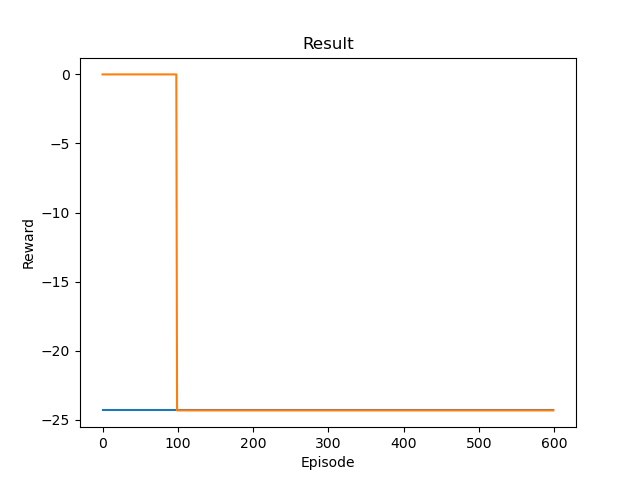
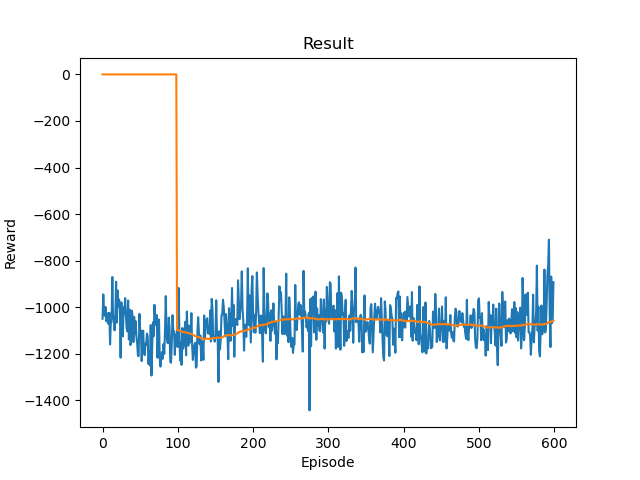
Fixed toy problem so policy only sees target. Including metaprompt.

diff --git a/general_sentiment_tuning.py b/general_sentiment_tuning.py
@@ -1,20 +1,21 @@
+import configparser
 import sys
+
+import pandas as pd
 import torch
 import torch.nn.functional as F
 from torch.distributions import Multinomial
 from tqdm import tqdm
-import pandas as pd
-import wandb
-import configparser
 
+import wandb
 from utils import build_dataset, collator, prepare_target, prepare_target_easy
 
 tqdm.pandas()
 
-from transformers import pipeline, AutoTokenizer, TextClassificationPipeline, AutoModelForCausalLM
 from datasets import load_dataset
-
-from trl import PPOTrainer, PPOConfig, AutoModelForCausalLMWithValueHead
+from transformers import (AutoModelForCausalLM, AutoTokenizer,
+                          TextClassificationPipeline, pipeline)
+from trl import AutoModelForCausalLMWithValueHead, PPOConfig, PPOTrainer
 from trl.core import LengthSampler
 
 run_config = configparser.ConfigParser()
@@ -28,11 +29,14 @@ wandb.init(project="sentiment-tuning", name=section, config=dict(run_config))
 config = PPOConfig(
     model_name=run_config["model_name"],
     learning_rate=run_config.getfloat("lr"),
-    log_with="wandb"
+    log_with="wandb",
 )
 
-sent_kwargs = {"return_all_scores": True, "function_to_apply": "none", "batch_size":
-        run_config.getint("batch_size")}
+sent_kwargs = {
+    "return_all_scores": True,
+    "function_to_apply": "none",
+    "batch_size": run_config.getint("batch_size"),
+}
 
 dataset = build_dataset(config)
 
@@ -44,8 +48,9 @@ tokenizer = AutoTokenizer.from_pretrained(config.model_name)
 tokenizer.pad_token = tokenizer.eos_token
 
 # Initialize PPOTrainer
-ppo_trainer = PPOTrainer(config, model, ref_model, tokenizer, dataset=dataset,
-        data_collator=collator) 
+ppo_trainer = PPOTrainer(
+    config, model, ref_model, tokenizer, dataset=dataset, data_collator=collator
+)
 
 # Load classifier
 device = ppo_trainer.accelerator.device
@@ -54,12 +59,16 @@ if ppo_trainer.accelerator.num_processes == 1:
 
 
 # sentiment_pipe = pipeline("sentiment-analysis", model="lvwerra/distilbert-imdb",
-        # device=device) 
-reward_pipe = pipeline("text-generation", model=config.model_name, tokenizer=tokenizer,
-        device=device)
-sentiment_pipe = pipeline("text-classification",
-        model=run_config["sentiment_model"], return_all_scores=True,
-        device=device)
+# device=device)
+reward_pipe = pipeline(
+    "text-generation", model=config.model_name, tokenizer=tokenizer, device=device
+)
+sentiment_pipe = pipeline(
+    "text-classification",
+    model=run_config["sentiment_model"],
+    return_all_scores=True,
+    device=device,
+)
 
 # Test classifier
 text = "this movie was really bad!!"
@@ -71,8 +80,13 @@ sentiment_preds = sentiment_pipe(text, **sent_kwargs)
 print(sentiment_preds)
 
 # Generation settings
-gen_kwargs = {"min_length": -1, "top_k": 0.0, "top_p": 1.0, "do_sample": True,
-        "pad_token_id": tokenizer.eos_token_id}
+gen_kwargs = {
+    "min_length": -1,
+    "top_k": 0.0,
+    "top_p": 1.0,
+    "do_sample": True,
+    "pad_token_id": tokenizer.eos_token_id,
+}
 
 # Optimize model
 
@@ -86,37 +100,46 @@ num_emotions = run_config.getint("num_emotions")
 emotions = run_config["emotions"].split(",")
 space_token = tokenizer(" ", return_tensors="pt")["input_ids"].to(device).squeeze(0)
 # Tokenize metaprompt
-metaprompt_tokens = tokenizer(run_config["metaprompt"], return_tensors="pt")["input_ids"].to(device).squeeze(0)
+metaprompt_tokens = (
+    tokenizer(run_config["metaprompt"], return_tensors="pt")["input_ids"]
+    .to(device)
+    .squeeze(0)
+)
 # Create target distribution
-target_dist = Multinomial(run_config.getint("top_k_emotions"),
-        probs=torch.ones((config.batch_size, num_emotions)))
+target_dist = Multinomial(
+    run_config.getint("top_k_emotions"),
+    probs=torch.ones((config.batch_size, num_emotions)),
+)
 
 for epoch, batch in tqdm(enumerate(ppo_trainer.dataloader)):
     query_tensors = batch["input_ids"]
     # Get response from policy
     response_tensors = []
     # Create emotion target
-    # target = F.log_softmax(torch.normal(mean=torch.zeros((config.batch_size, 
-        # num_emotions)), std=1.0), dim=1)
+    # target = F.log_softmax(torch.normal(mean=torch.zeros((config.batch_size,
+    # num_emotions)), std=1.0), dim=1)
     target, target_tokens = prepare_target_easy(target_dist, emotions, tokenizer)
     target_tokens = target_tokens.to(device)
     generated_texts = []
     for i, query in enumerate(query_tensors):
         gen_len = output_length_sampler()
         gen_kwargs["max_new_tokens"] = gen_len
-        query_with_emotion = torch.cat((metaprompt_tokens, space_token,
-            target_tokens[i], space_token, query), dim=0).long()
+        query_with_emotion = torch.cat(
+            (metaprompt_tokens, space_token, target_tokens[i], space_token, query),
+            dim=0,
+        ).long()
         response = ppo_trainer.generate(query_with_emotion, **gen_kwargs)
         response = response.squeeze()[-gen_len:]
         response_tensors.append(response)
         # Generate text for reward
         response_query = tokenizer.decode(torch.cat((response, query), dim=0))
-        generated_text = reward_pipe(response_query, **gen_kwargs,
-                return_full_text=False)[0]["generated_text"]
+        generated_text = reward_pipe(
+            response_query, **gen_kwargs, return_full_text=False
+        )[0]["generated_text"]
         generated_texts.append(generated_text)
-    batch["response"] = [tokenizer.decode(r.squeeze()) for r in response_tensors] 
+    batch["response"] = [tokenizer.decode(r.squeeze()) for r in response_tensors]
 
-    # Compute reward 
+    # Compute reward
     ## Prepend `response`, which is the `prefix`, to the `query`, which is the text
     ## from the dataset
     # texts = [r + q for q, r in zip(batch["query"], batch["response"])]
@@ -128,10 +151,11 @@ for epoch, batch in tqdm(enumerate(ppo_trainer.dataloader)):
         # pred_logprobs = F.log_softmax(preds, dim=0)
         predicted_sentiments.append(preds)
     # Compute reward
-    # rewards = -F.kl_div(torch.stack(predicted_sentiments), target, 
-            # reduction="none", log_target=True).sum(1)
-    rewards = -F.cross_entropy(torch.stack(predicted_sentiments), target,
-    reduction="none")
+    # rewards = -F.kl_div(torch.stack(predicted_sentiments), target,
+    # reduction="none", log_target=True).sum(1)
+    rewards = -F.cross_entropy(
+        torch.stack(predicted_sentiments), target, reduction="none"
+    )
     rewards = [r for r in rewards]
     # rewards = [torch.tensor(output[1]["score"]) for output in pipe_outputs]
 
@@ -142,4 +166,3 @@ for epoch, batch in tqdm(enumerate(ppo_trainer.dataloader)):
 # Save model
 model.save_pretrained("saved_models/" + run_config["save_name"])
 tokenizer.save_pretrained("saved_models/" + run_config["save_name"])
-

diff --git a/toy_problem.py b/toy_problem.py
@@ -1,3 +1,4 @@
+import logging
 import math
 import random
 from collections import deque, namedtuple
@@ -48,7 +49,7 @@ class ColorEnv(gym.Env):
         self,
         num_actions,
         render_mode=None,
-        max_prefix_length=100,
+        max_prefix_length=10,
         max_prompt_length=100,
     ):
         self.max_prefix_length = max_prefix_length
@@ -164,6 +165,25 @@ class ColorPolicy(nn.Module):
         return last_token_logits
 
 
+def setup_logger(log_file):
+    # Create a logger
+    logger = logging.getLogger("training_logger")
+    logger.setLevel(logging.DEBUG)
+
+    # Create a file handler and set the logging level
+    file_handler = logging.FileHandler(log_file)
+    file_handler.setLevel(logging.DEBUG)
+
+    # Create a formatter
+    formatter = logging.Formatter("%(asctime)s - %(levelname)s - %(message)s")
+    file_handler.setFormatter(formatter)
+
+    # Add the file handler to the logger
+    logger.addHandler(file_handler)
+
+    return logger
+
+
 color_policy = ColorPolicy(2)
 
 # BATCH_SIZE is the number of transitions sampled from the replay buffer
@@ -174,13 +194,16 @@ color_policy = ColorPolicy(2)
 # higher means a slower decay
 # TAU is the update rate of the target network
 # LR is the learning rate of the ``AdamW`` optimizer
-BATCH_SIZE = 128
+BATCH_SIZE = 512
 GAMMA = 0.99
 EPS_START = 0.9
 EPS_END = 0.05
 EPS_DECAY = 1000
 TAU = 0.005
 LR = 1e-4
+
+log_file = "training.log"
+logger = setup_logger(log_file)
 
 n_actions = color_policy.vocab_size
 
@@ -211,12 +234,24 @@ def select_action(state):
     )
     steps_done += 1
     state = tokenizer(state, return_tensors="pt")["input_ids"].to(device)
+    # Include target with state
+    target = env._get_info()["target_str"].strip().lower()
+    metaprompt = (
+        "The following examplars show you how to generate a good prompt to help"
+        " a model identify the color of a book it cannot see. The correct color of"
+        " the book is given to you in curly brackets. The generated prompt is in "
+        "quotation marks\n\nExample:\n{Target: red}\n"
+        '"The book is red."\n\nExample:\n{Target: blue}\n"The book is blue."\n\n'
+        "Here is the target for the current example:\n\n"
+        "{" + f"Target: {target}" + "}\n"
+    )
+    target = tokenizer(metaprompt, return_tensors="pt")["input_ids"].to(device)
     if sample > eps_threshold:
         with torch.no_grad():
             # t.max(1) will return the largest column value of each row.
             # second column on max result is index of where max element was
             # found, so we pick action with the larger expected reward.
-            return policy_net(state).max(1)[1].view(1, 1).to(device).squeeze(0)
+            return policy_net(target).max(1)[1].view(1, 1).to(device).squeeze(0)
     else:
         return torch.tensor(
             [env.action_space.sample()], device=device, dtype=torch.long
@@ -340,6 +375,7 @@ else:
 for i_episode in range(num_episodes):
     # Initialize the environment and get it's state
     state, info = env.reset(prompt)
+    logger.info(f"Episode {i_episode + 1}: Starting...")
     # Tokenize state string
     rewards = []
     for t in count():
@@ -375,7 +411,14 @@ for i_episode in range(num_episodes):
 
         if done:
             episode_durations.append(t + 1)
-            episode_rewards.append(sum(rewards))
+            mean_reward = sum(rewards) / len(rewards)
+            episode_rewards.append(mean_reward)
+            logger.info(f"Episode {i_episode + 1}: Completed.")
+            info = env._get_info()
+            logger.info(f"Episode {i_episode + 1}: Info.")
+            for key, value in info.items():
+                logger.info(f"{key} : {value}")
+            logger.info(f"Episode reward : {mean_reward}")
             # plot_durations()
             # plot_rewards()
             break
@@ -392,7 +435,9 @@ plt.ylabel("Reward")
 plt.plot(rewards_t.numpy())
 
 if len(rewards_t) >= 100:
+    pu.db
     means = rewards_t.unfold(0, 100, 1).mean(1).view(-1)
-    means = torch.cat((torch.zeros(99), means))
+    means = torch.cat((torch.full((99,), -50), means))
     plt.plot(means.numpy())
-plt.savefig("fig_red_blue_128.png")
+plt.savefig("fig_red_blue_256_mean.png")
+torch.save(policy_net.state_dict(), "policy_red_blue_256_mean.pt")

diff --git a/ppo_toy_problem.py b/ppo_toy_problem.py
@@ -1,0 +1,7 @@
+from trl import AutoModelForCausalLMWithValueHead, PPOConfig, PPOTrainer
+from trl.core import LengthSampler
+
+config = PPOConfig(
+    model_name="gpt2",
+    learning_rate=1.41e-5,
+)
